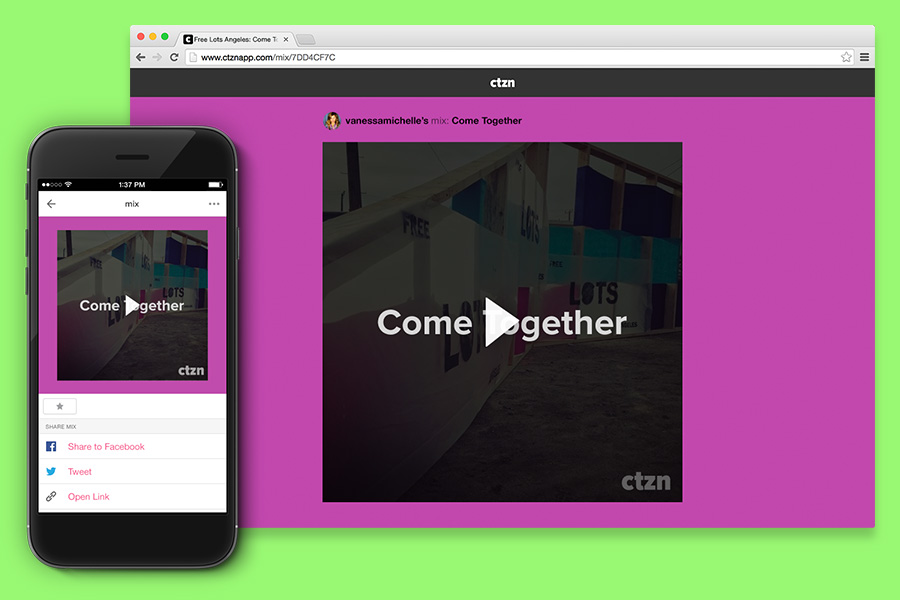
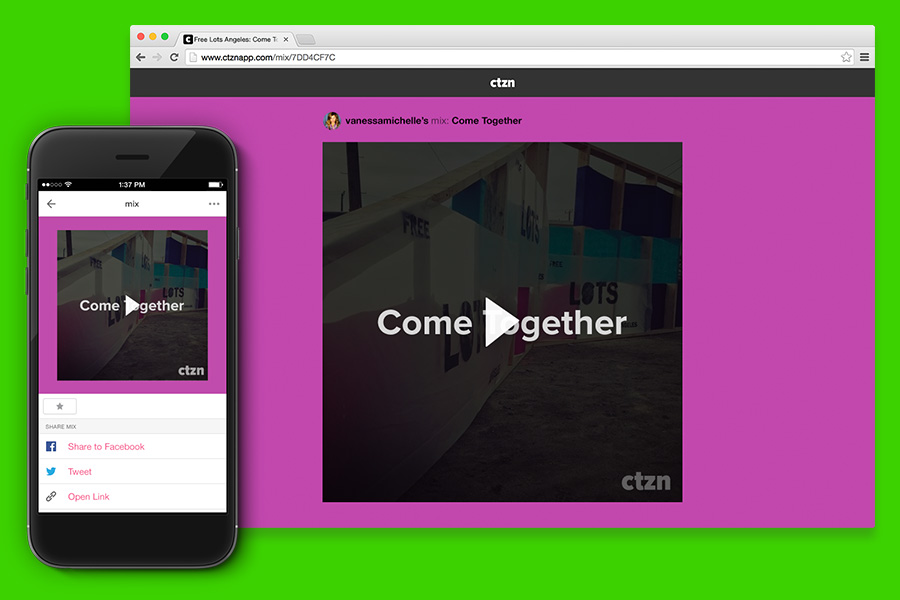
Update image background colors

Changed region(s): [[0.0, 0.0, 1.0, 1.0]]

diff --git a/test/about.html b/test/about.html
@@ -322,7 +322,7 @@
             </h3>
           </div>
 
-          <p><img src="../assets/images/about/connect.png" alt="Read posts by other people in your group using the app" /></p>
+          <p><img src="../assets/images/about/connect.jpg" alt="Read posts by other people in your group using the app" /></p>
         </section>
 
         <section class="blueberry feature push-card">
@@ -338,7 +338,7 @@
             </h3>
           </div>
 
-          <p><img src="../assets/images/about/collect.png" width="400" height="749" alt="Collect stories from Twitter, Facebook and Instagram" /></p>
+          <p><img src="../assets/images/about/collect.jpg" width="400" height="749" alt="Collect stories from Twitter, Facebook and Instagram" /></p>
         </section>
 
         <section class="plumb feature push-card">
@@ -347,7 +347,7 @@
             <h3>Mix everything <strong>into videos</strong></h3>
           </div>
 
-          <p><img src="../assets/images/about/mix.png" alt="Choose photos to create a new mix" /></p>
+          <p><img src="../assets/images/about/mix.jpg" alt="Choose photos to create a new mix" /></p>
         </section>
 
         <section class="cucumber feature push-card">
@@ -361,7 +361,7 @@
             <h3>Share mix videos <strong>anywhere</strong></h3>
           </div>
 
-          <p><img src="../assets/images/about/share.png" alt="Your finished mix will be a shareable video" /></p>
+          <p><img src="../assets/images/about/share.jpg" alt="Your finished mix will be a shareable video" /></p>
         </section>
 
         <section class="boysenberry feature push-card">
@@ -370,7 +370,7 @@
             <h3>Stay in touch <strong>from your inbox</strong></h3>
           </div>
 
-          <p class="email-image"><img src="../assets/images/about/email.png" alt="An email about new posts and people in your group" /></p>
+          <p class="email-image"><img src="../assets/images/about/email.jpg" alt="An email about new posts and people in your group" /></p>
         </section>
 
         <section class="orange push-card" id="color">

diff --git a/assets/js/color.js b/assets/js/color.js
@@ -13,7 +13,8 @@
       'orange',
       'boysenberry',
       'lime',
-      'tangerine'
+      'tangerine',
+      'periwinkle'
     ];
 
     var min = 0;
